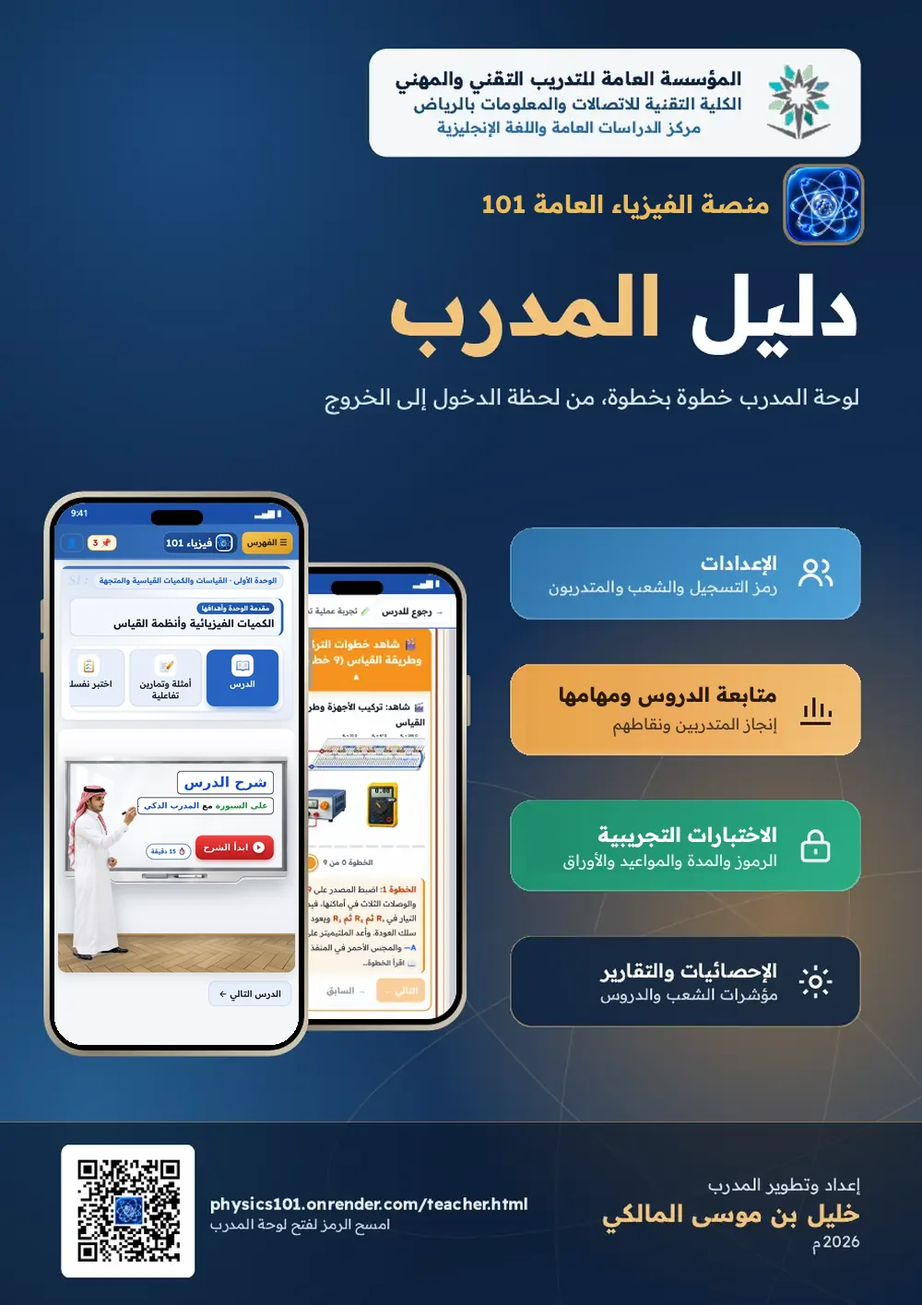
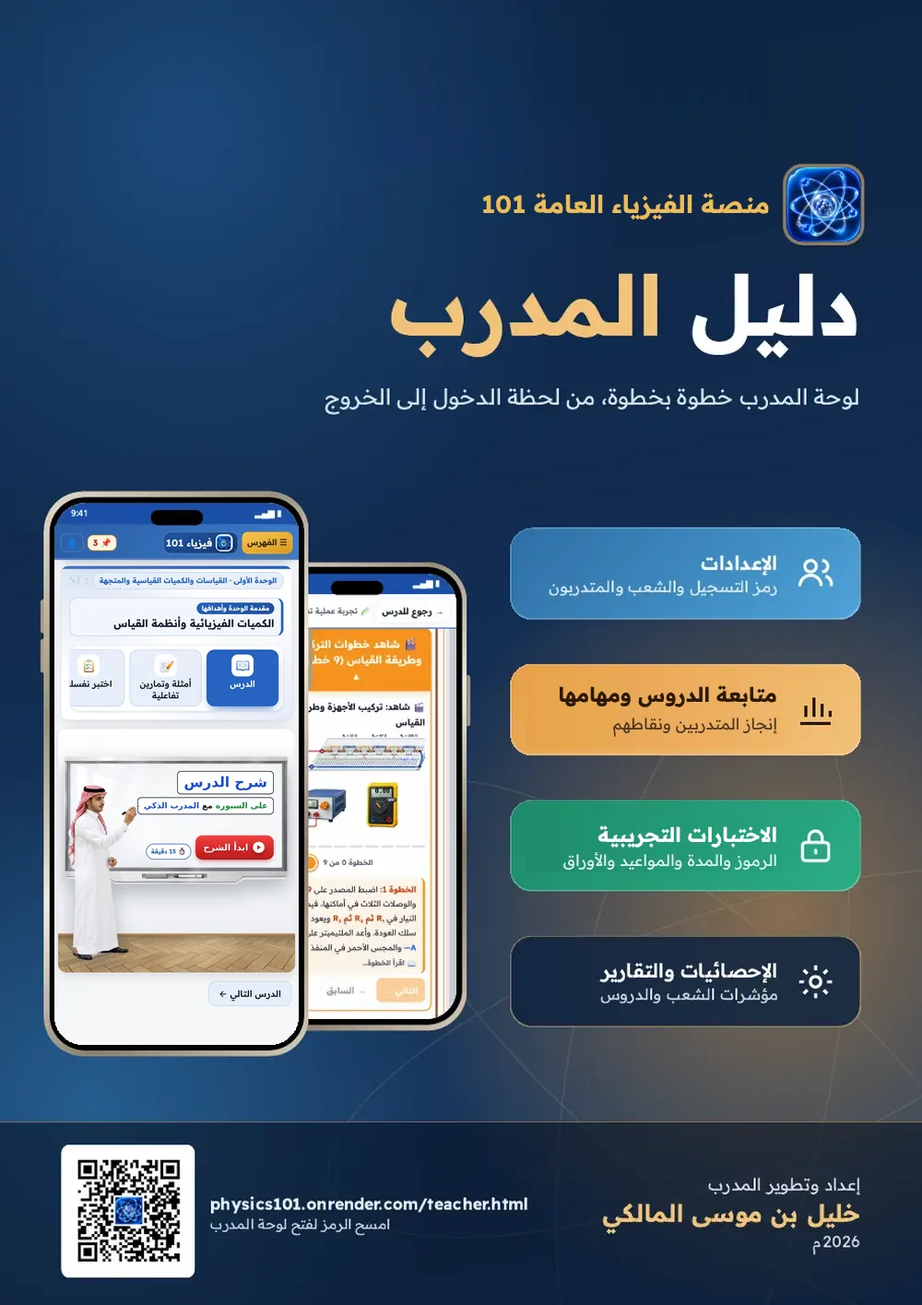
غلاف الدليلين بلا شعار المؤسسة واسم الكلية
Claude-Session: https://claude.ai/code/session_01CB4T7YvaYW1hTMEojz72V4

Changed region(s): [[0.372, 0.0311, 0.961, 0.1244]]

diff --git a/guide.html b/guide.html
@@ -18,7 +18,7 @@ main{max-width:920px;margin:0 auto;padding:12px 10px 40px;padding-left:max(10px,
 <header><img src="icon-192.png" alt=""><h1>دليل المتدرب</h1><button type="button" id="tg">☰ الفهرس</button><a href="index.html">↩ المنصة</a></header>
 <main><nav class="toc" id="toc"><h2>☰ محتويات دليل المتدرب</h2><a href="#p2">03 المتطلبات قبل البدء</a><div class="stg"><b>1</b>مرحلة البدء</div><a href="#p3"><span>1-1</span>البدء: الدخول وتعيين كلمة المرور</a><a href="#p7"><span>1-2</span>الصفحة الرئيسية واختيار الدرس</a><div class="stg"><b>2</b>مرحلة الشرح</div><a href="#p8"><span>2-1</span>شرح الدرس على السبورة مع المدرب الذكي</a><a href="#p12"><span>2-2</span>نص الدرس و«استمع للدرس كاملا»</a><div class="stg"><b>3</b>مرحلة التدريب</div><a href="#p14"><span>3-1</span>الأمثلة والتمارين التفاعلية</a><a href="#p18"><span>3-2</span>اختبر نفسك والآلة الحاسبة</a><a href="#p20"><span>3-3</span>التجارب العملية التفاعلية</a><a href="#p23"><span>3-4</span>المساعد الذكي وتقييم الدرس</a><div class="stg"><b>4</b>مرحلة الإنهاء</div><a href="#p27"><span>4-1</span>إنهاء الدرس وحفظ التقدم والانتقال للدرس التالي</a><a href="#p29"><span>4-2</span>الإعدادات: الصوت والوضع الليلي</a><div class="stg"><b>5</b>مرحلة الاختبارات والخروج</div><a href="#p31"><span>5-1</span>الاختبارات التجريبية</a><a href="#p35"><span>5-2</span>تسجيل الخروج</a></nav>
 <p class="note">كبّر الصفحة بإصبعين لقراءة التفاصيل.</p>
-<img id="p1" class="pg" src="gtr-01.webp?v=1103b" width="1000" height="1415" alt="دليل المتدرب - صفحة 1" loading="eager" decoding="async"><img id="p2" class="pg" src="gtr-02.webp?v=1103b" width="1000" height="1415" alt="دليل المتدرب - صفحة 2" loading="eager" decoding="async"><img id="p3" class="pg" src="gtr-03.webp?v=1103b" width="1000" height="1415" alt="دليل المتدرب - صفحة 3" loading="lazy" decoding="async"><img id="p4" class="pg" src="gtr-04.webp?v=1103b" width="1000" height="1415" alt="دليل المتدرب - صفحة 4" loading="lazy" decoding="async"><img id="p5" class="pg" src="gtr-05.webp?v=1103b" width="1000" height="1415" alt="دليل المتدرب - صفحة 5" loading="lazy" decoding="async"><img id="p6" class="pg" src="gtr-06.webp?v=1103b" width="1000" height="1415" alt="دليل المتدرب - صفحة 6" loading="lazy" decoding="async"><img id="p7" class="pg" src="gtr-07.webp?v=1103b" width="1000" height="1415" alt="دليل المتدرب - صفحة 7" loading="lazy" decoding="async"><img id="p8" class="pg" src="gtr-08.webp?v=1103b" width="1000" height="1415" alt="دليل المتدرب - صفحة 8" loading="lazy" decoding="async"><img id="p9" class="pg" src="gtr-09.webp?v=1103b" width="1000" height="1415" alt="دليل المتدرب - صفحة 9" loading="lazy" decoding="async"><img id="p10" class="pg" src="gtr-10.webp?v=1103b" width="1000" height="1415" alt="دليل المتدرب - صفحة 10" loading="lazy" decoding="async"><img id="p11" class="pg" src="gtr-11.webp?v=1103b" width="1000" height="1415" alt="دليل المتدرب - صفحة 11" loading="lazy" decoding="async"><img id="p12" class="pg" src="gtr-12.webp?v=1103b" width="1000" height="1415" alt="دليل المتدرب - صفحة 12" loading="lazy" decoding="async"><img id="p14" class="pg" src="gtr-14.webp?v=1103b" width="1000" height="1415" alt="دليل المتدرب - صفحة 14" loading="lazy" decoding="async"><img id="p15" class="pg" src="gtr-15.webp?v=1103b" width="1000" height="1415" alt="دليل المتدرب - صفحة 15" loading="lazy" decoding="async"><img id="p16" class="pg" src="gtr-16.webp?v=1103b" width="1000" height="1415" alt="دليل المتدرب - صفحة 16" loading="lazy" decoding="async"><img id="p17" class="pg" src="gtr-17.webp?v=1103b" width="1000" height="1415" alt="دليل المتدرب - صفحة 17" loading="lazy" decoding="async"><img id="p18" class="pg" src="gtr-18.webp?v=1103b" width="1000" height="1415" alt="دليل المتدرب - صفحة 18" loading="lazy" decoding="async"><img id="p19" class="pg" src="gtr-19.webp?v=1103b" width="1000" height="1415" alt="دليل المتدرب - صفحة 19" loading="lazy" decoding="async"><img id="p20" class="pg" src="gtr-20.webp?v=1103b" width="1000" height="1415" alt="دليل المتدرب - صفحة 20" loading="lazy" decoding="async"><img id="p21" class="pg" src="gtr-21.webp?v=1103b" width="1000" height="1415" alt="دليل المتدرب - صفحة 21" loading="lazy" decoding="async"><img id="p22" class="pg" src="gtr-22.webp?v=1103b" width="1000" height="1415" alt="دليل المتدرب - صفحة 22" loading="lazy" decoding="async"><img id="p23" class="pg" src="gtr-23.webp?v=1103b" width="1000" height="1415" alt="دليل المتدرب - صفحة 23" loading="lazy" decoding="async"><img id="p24" class="pg" src="gtr-24.webp?v=1103b" width="1000" height="1415" alt="دليل المتدرب - صفحة 24" loading="lazy" decoding="async"><img id="p25" class="pg" src="gtr-25.webp?v=1103b" width="1000" height="1415" alt="دليل المتدرب - صفحة 25" loading="lazy" decoding="async"><img id="p26" class="pg" src="gtr-26.webp?v=1103b" width="1000" height="1415" alt="دليل المتدرب - صفحة 26" loading="lazy" decoding="async"><img id="p27" class="pg" src="gtr-27.webp?v=1103b" width="1000" height="1415" alt="دليل المتدرب - صفحة 27" loading="lazy" decoding="async"><img id="p28" class="pg" src="gtr-28.webp?v=1103b" width="1000" height="1415" alt="دليل المتدرب - صفحة 28" loading="lazy" decoding="async"><img id="p29" class="pg" src="gtr-29.webp?v=1103b" width="1000" height="1415" alt="دليل المتدرب - صفحة 29" loading="lazy" decoding="async"><img id="p30" class="pg" src="gtr-30.webp?v=1103b" width="1000" height="1415" alt="دليل المتدرب - صفحة 30" loading="lazy" decoding="async"><img id="p31" class="pg" src="gtr-31.webp?v=1103b" width="1000" height="1415" alt="دليل المتدرب - صفحة 31" loading="lazy" decoding="async"><img id="p32" class="pg" src="gtr-32.webp?v=1103b" width="1000" height="1415" alt="دليل المتدرب - صفحة 32" loading="lazy" decoding="async"><img id="p33" class="pg" src="gtr-33.webp?v=1103b" width="1000" height="1415" alt="دليل المتدرب - صفحة 33" loading="lazy" decoding="async"><img id="p34" class="pg" src="gtr-34.webp?v=1103b" width="1000" height="1415" alt="دليل المتدرب - صفحة 34" loading="lazy" decoding="async"><img id="p35" class="pg" src="gtr-35.webp?v=1103b" width="1000" height="1415" alt="دليل المتدرب - صفحة 35" loading="lazy" decoding="async"></main>
+<img id="p1" class="pg" src="gtr-01.webp?v=1103c" width="1000" height="1415" alt="دليل المتدرب - صفحة 1" loading="eager" decoding="async"><img id="p2" class="pg" src="gtr-02.webp?v=1103b" width="1000" height="1415" alt="دليل المتدرب - صفحة 2" loading="eager" decoding="async"><img id="p3" class="pg" src="gtr-03.webp?v=1103b" width="1000" height="1415" alt="دليل المتدرب - صفحة 3" loading="lazy" decoding="async"><img id="p4" class="pg" src="gtr-04.webp?v=1103b" width="1000" height="1415" alt="دليل المتدرب - صفحة 4" loading="lazy" decoding="async"><img id="p5" class="pg" src="gtr-05.webp?v=1103b" width="1000" height="1415" alt="دليل المتدرب - صفحة 5" loading="lazy" decoding="async"><img id="p6" class="pg" src="gtr-06.webp?v=1103b" width="1000" height="1415" alt="دليل المتدرب - صفحة 6" loading="lazy" decoding="async"><img id="p7" class="pg" src="gtr-07.webp?v=1103b" width="1000" height="1415" alt="دليل المتدرب - صفحة 7" loading="lazy" decoding="async"><img id="p8" class="pg" src="gtr-08.webp?v=1103b" width="1000" height="1415" alt="دليل المتدرب - صفحة 8" loading="lazy" decoding="async"><img id="p9" class="pg" src="gtr-09.webp?v=1103b" width="1000" height="1415" alt="دليل المتدرب - صفحة 9" loading="lazy" decoding="async"><img id="p10" class="pg" src="gtr-10.webp?v=1103b" width="1000" height="1415" alt="دليل المتدرب - صفحة 10" loading="lazy" decoding="async"><img id="p11" class="pg" src="gtr-11.webp?v=1103b" width="1000" height="1415" alt="دليل المتدرب - صفحة 11" loading="lazy" decoding="async"><img id="p12" class="pg" src="gtr-12.webp?v=1103b" width="1000" height="1415" alt="دليل المتدرب - صفحة 12" loading="lazy" decoding="async"><img id="p14" class="pg" src="gtr-14.webp?v=1103b" width="1000" height="1415" alt="دليل المتدرب - صفحة 14" loading="lazy" decoding="async"><img id="p15" class="pg" src="gtr-15.webp?v=1103b" width="1000" height="1415" alt="دليل المتدرب - صفحة 15" loading="lazy" decoding="async"><img id="p16" class="pg" src="gtr-16.webp?v=1103b" width="1000" height="1415" alt="دليل المتدرب - صفحة 16" loading="lazy" decoding="async"><img id="p17" class="pg" src="gtr-17.webp?v=1103b" width="1000" height="1415" alt="دليل المتدرب - صفحة 17" loading="lazy" decoding="async"><img id="p18" class="pg" src="gtr-18.webp?v=1103b" width="1000" height="1415" alt="دليل المتدرب - صفحة 18" loading="lazy" decoding="async"><img id="p19" class="pg" src="gtr-19.webp?v=1103b" width="1000" height="1415" alt="دليل المتدرب - صفحة 19" loading="lazy" decoding="async"><img id="p20" class="pg" src="gtr-20.webp?v=1103b" width="1000" height="1415" alt="دليل المتدرب - صفحة 20" loading="lazy" decoding="async"><img id="p21" class="pg" src="gtr-21.webp?v=1103b" width="1000" height="1415" alt="دليل المتدرب - صفحة 21" loading="lazy" decoding="async"><img id="p22" class="pg" src="gtr-22.webp?v=1103b" width="1000" height="1415" alt="دليل المتدرب - صفحة 22" loading="lazy" decoding="async"><img id="p23" class="pg" src="gtr-23.webp?v=1103b" width="1000" height="1415" alt="دليل المتدرب - صفحة 23" loading="lazy" decoding="async"><img id="p24" class="pg" src="gtr-24.webp?v=1103b" width="1000" height="1415" alt="دليل المتدرب - صفحة 24" loading="lazy" decoding="async"><img id="p25" class="pg" src="gtr-25.webp?v=1103b" width="1000" height="1415" alt="دليل المتدرب - صفحة 25" loading="lazy" decoding="async"><img id="p26" class="pg" src="gtr-26.webp?v=1103b" width="1000" height="1415" alt="دليل المتدرب - صفحة 26" loading="lazy" decoding="async"><img id="p27" class="pg" src="gtr-27.webp?v=1103b" width="1000" height="1415" alt="دليل المتدرب - صفحة 27" loading="lazy" decoding="async"><img id="p28" class="pg" src="gtr-28.webp?v=1103b" width="1000" height="1415" alt="دليل المتدرب - صفحة 28" loading="lazy" decoding="async"><img id="p29" class="pg" src="gtr-29.webp?v=1103b" width="1000" height="1415" alt="دليل المتدرب - صفحة 29" loading="lazy" decoding="async"><img id="p30" class="pg" src="gtr-30.webp?v=1103b" width="1000" height="1415" alt="دليل المتدرب - صفحة 30" loading="lazy" decoding="async"><img id="p31" class="pg" src="gtr-31.webp?v=1103b" width="1000" height="1415" alt="دليل المتدرب - صفحة 31" loading="lazy" decoding="async"><img id="p32" class="pg" src="gtr-32.webp?v=1103b" width="1000" height="1415" alt="دليل المتدرب - صفحة 32" loading="lazy" decoding="async"><img id="p33" class="pg" src="gtr-33.webp?v=1103b" width="1000" height="1415" alt="دليل المتدرب - صفحة 33" loading="lazy" decoding="async"><img id="p34" class="pg" src="gtr-34.webp?v=1103b" width="1000" height="1415" alt="دليل المتدرب - صفحة 34" loading="lazy" decoding="async"><img id="p35" class="pg" src="gtr-35.webp?v=1103b" width="1000" height="1415" alt="دليل المتدرب - صفحة 35" loading="lazy" decoding="async"></main>
 <button class="top" type="button" id="up" aria-label="إلى الأعلى">↑</button>
 <script>
 const T=document.getElementById('toc');document.getElementById('tg').onclick=()=>{T.hidden=false;T.scrollIntoView({behavior:'smooth'})};

diff --git a/teacher-guide.html b/teacher-guide.html
@@ -18,7 +18,7 @@ main{max-width:920px;margin:0 auto;padding:12px 10px 40px;padding-left:max(10px,
 <header><img src="icon-192.png" alt=""><h1>دليل المدرب</h1><button type="button" id="tg">☰ الفهرس</button><a href="teacher.html">↩ لوحة المدرب</a></header>
 <main><nav class="toc" id="toc"><h2>☰ محتويات دليل المدرب</h2><a href="#p2">03 المتطلبات قبل البدء</a><div class="stg"><b>1</b>مرحلة الدخول</div><a href="#p3"><span>1-1</span>الدخول إلى لوحة المدرب</a><div class="stg"><b>2</b>مرحلة الإعدادات</div><a href="#p5"><span>2-1</span>رمز التسجيل لأول دخول</a><a href="#p6"><span>2-2</span>إضافة الشعب</a><a href="#p7"><span>2-3</span>رابط المنصة والمدرب الذكي</a><a href="#p9"><span>2-4</span>بيانات الدخول</a><a href="#p10"><span>2-5</span>إدارة المتدربين</a><a href="#p11"><span>2-6</span>توزيع نقاط مهام الدروس</a><div class="stg"><b>3</b>مرحلة متابعة الدروس</div><a href="#p12"><span>3-1</span>متابعة الدروس</a><a href="#p13"><span>3-1</span>سجل متابعة المتدرب</a><div class="stg"><b>4</b>مرحلة مهام الدروس</div><a href="#p14"><span>4-1</span>نقاط مهام الدروس</a><a href="#p15"><span>4-1</span>المؤشرات والمتابعة</a><a href="#p16"><span>4-1</span>بطاقة المتدرب</a><div class="stg"><b>5</b>مرحلة الاختبارات</div><a href="#p17"><span>5-1</span>الاختبارات: الشعب والمتدربون</a><a href="#p18"><span>5-1</span>فتح الاختبار والرمز والمدة</a><a href="#p19"><span>5-1</span>موعد الاختبار والإعدادات العامة</a><a href="#p20"><span>5-1</span>سجل نتائج الاختبارات</a><a href="#p21"><span>5-1</span>إعادة الاختبار والسماح بجهاز آخر</a><a href="#p22"><span>5-2</span>أوراق المتدربين</a><a href="#p23"><span>5-2</span>الورقة بعد الحل والطباعة</a><a href="#p24"><span>5-2</span>بنك الأسئلة وتصدير Word</a><div class="stg"><b>6</b>مرحلة الإحصائيات والتقارير</div><a href="#p25"><span>6-1</span>الإحصائيات والتقارير</a><a href="#p26"><span>6-1</span>التقييم ومدة شرح الدروس</a><a href="#p27"><span>6-1</span>أسئلة المساعد الذكي</a><div class="stg"><b>7</b>مرحلة الخروج</div><a href="#p28"><span>7-1</span>تسجيل الخروج</a></nav>
 <p class="note">كبّر الصفحة بإصبعين لقراءة التفاصيل.</p>
-<img id="p1" class="pg" src="gtc-01.webp?v=1103b" width="1000" height="1415" alt="دليل المدرب - صفحة 1" loading="eager" decoding="async"><img id="p2" class="pg" src="gtc-02.webp?v=1103b" width="1000" height="1415" alt="دليل المدرب - صفحة 2" loading="eager" decoding="async"><img id="p3" class="pg" src="gtc-03.webp?v=1103b" width="1000" height="1415" alt="دليل المدرب - صفحة 3" loading="lazy" decoding="async"><img id="p4" class="pg" src="gtc-04.webp?v=1103b" width="1000" height="1415" alt="دليل المدرب - صفحة 4" loading="lazy" decoding="async"><img id="p5" class="pg" src="gtc-05.webp?v=1103b" width="1000" height="1415" alt="دليل المدرب - صفحة 5" loading="lazy" decoding="async"><img id="p6" class="pg" src="gtc-06.webp?v=1103b" width="1000" height="1415" alt="دليل المدرب - صفحة 6" loading="lazy" decoding="async"><img id="p7" class="pg" src="gtc-07.webp?v=1103b" width="1000" height="1415" alt="دليل المدرب - صفحة 7" loading="lazy" decoding="async"><img id="p8" class="pg" src="gtc-08.webp?v=1103b" width="1000" height="1415" alt="دليل المدرب - صفحة 8" loading="lazy" decoding="async"><img id="p9" class="pg" src="gtc-09.webp?v=1103b" width="1000" height="1415" alt="دليل المدرب - صفحة 9" loading="lazy" decoding="async"><img id="p10" class="pg" src="gtc-10.webp?v=1103b" width="1000" height="1415" alt="دليل المدرب - صفحة 10" loading="lazy" decoding="async"><img id="p11" class="pg" src="gtc-11.webp?v=1103b" width="1000" height="1415" alt="دليل المدرب - صفحة 11" loading="lazy" decoding="async"><img id="p12" class="pg" src="gtc-12.webp?v=1103b" width="1000" height="1415" alt="دليل المدرب - صفحة 12" loading="lazy" decoding="async"><img id="p13" class="pg" src="gtc-13.webp?v=1103b" width="1000" height="1415" alt="دليل المدرب - صفحة 13" loading="lazy" decoding="async"><img id="p14" class="pg" src="gtc-14.webp?v=1103b" width="1000" height="1415" alt="دليل المدرب - صفحة 14" loading="lazy" decoding="async"><img id="p15" class="pg" src="gtc-15.webp?v=1103b" width="1000" height="1415" alt="دليل المدرب - صفحة 15" loading="lazy" decoding="async"><img id="p16" class="pg" src="gtc-16.webp?v=1103b" width="1000" height="1415" alt="دليل المدرب - صفحة 16" loading="lazy" decoding="async"><img id="p17" class="pg" src="gtc-17.webp?v=1103b" width="1000" height="1415" alt="دليل المدرب - صفحة 17" loading="lazy" decoding="async"><img id="p18" class="pg" src="gtc-18.webp?v=1103b" width="1000" height="1415" alt="دليل المدرب - صفحة 18" loading="lazy" decoding="async"><img id="p19" class="pg" src="gtc-19.webp?v=1103b" width="1000" height="1415" alt="دليل المدرب - صفحة 19" loading="lazy" decoding="async"><img id="p20" class="pg" src="gtc-20.webp?v=1103b" width="1000" height="1415" alt="دليل المدرب - صفحة 20" loading="lazy" decoding="async"><img id="p21" class="pg" src="gtc-21.webp?v=1103b" width="1000" height="1415" alt="دليل المدرب - صفحة 21" loading="lazy" decoding="async"><img id="p22" class="pg" src="gtc-22.webp?v=1103b" width="1000" height="1415" alt="دليل المدرب - صفحة 22" loading="lazy" decoding="async"><img id="p23" class="pg" src="gtc-23.webp?v=1103b" width="1000" height="1415" alt="دليل المدرب - صفحة 23" loading="lazy" decoding="async"><img id="p24" class="pg" src="gtc-24.webp?v=1103b" width="1000" height="1415" alt="دليل المدرب - صفحة 24" loading="lazy" decoding="async"><img id="p25" class="pg" src="gtc-25.webp?v=1103b" width="1000" height="1415" alt="دليل المدرب - صفحة 25" loading="lazy" decoding="async"><img id="p26" class="pg" src="gtc-26.webp?v=1103b" width="1000" height="1415" alt="دليل المدرب - صفحة 26" loading="lazy" decoding="async"><img id="p27" class="pg" src="gtc-27.webp?v=1103b" width="1000" height="1415" alt="دليل المدرب - صفحة 27" loading="lazy" decoding="async"><img id="p28" class="pg" src="gtc-28.webp?v=1103b" width="1000" height="1415" alt="دليل المدرب - صفحة 28" loading="lazy" decoding="async"></main>
+<img id="p1" class="pg" src="gtc-01.webp?v=1103c" width="1000" height="1415" alt="دليل المدرب - صفحة 1" loading="eager" decoding="async"><img id="p2" class="pg" src="gtc-02.webp?v=1103b" width="1000" height="1415" alt="دليل المدرب - صفحة 2" loading="eager" decoding="async"><img id="p3" class="pg" src="gtc-03.webp?v=1103b" width="1000" height="1415" alt="دليل المدرب - صفحة 3" loading="lazy" decoding="async"><img id="p4" class="pg" src="gtc-04.webp?v=1103b" width="1000" height="1415" alt="دليل المدرب - صفحة 4" loading="lazy" decoding="async"><img id="p5" class="pg" src="gtc-05.webp?v=1103b" width="1000" height="1415" alt="دليل المدرب - صفحة 5" loading="lazy" decoding="async"><img id="p6" class="pg" src="gtc-06.webp?v=1103b" width="1000" height="1415" alt="دليل المدرب - صفحة 6" loading="lazy" decoding="async"><img id="p7" class="pg" src="gtc-07.webp?v=1103b" width="1000" height="1415" alt="دليل المدرب - صفحة 7" loading="lazy" decoding="async"><img id="p8" class="pg" src="gtc-08.webp?v=1103b" width="1000" height="1415" alt="دليل المدرب - صفحة 8" loading="lazy" decoding="async"><img id="p9" class="pg" src="gtc-09.webp?v=1103b" width="1000" height="1415" alt="دليل المدرب - صفحة 9" loading="lazy" decoding="async"><img id="p10" class="pg" src="gtc-10.webp?v=1103b" width="1000" height="1415" alt="دليل المدرب - صفحة 10" loading="lazy" decoding="async"><img id="p11" class="pg" src="gtc-11.webp?v=1103b" width="1000" height="1415" alt="دليل المدرب - صفحة 11" loading="lazy" decoding="async"><img id="p12" class="pg" src="gtc-12.webp?v=1103b" width="1000" height="1415" alt="دليل المدرب - صفحة 12" loading="lazy" decoding="async"><img id="p13" class="pg" src="gtc-13.webp?v=1103b" width="1000" height="1415" alt="دليل المدرب - صفحة 13" loading="lazy" decoding="async"><img id="p14" class="pg" src="gtc-14.webp?v=1103b" width="1000" height="1415" alt="دليل المدرب - صفحة 14" loading="lazy" decoding="async"><img id="p15" class="pg" src="gtc-15.webp?v=1103b" width="1000" height="1415" alt="دليل المدرب - صفحة 15" loading="lazy" decoding="async"><img id="p16" class="pg" src="gtc-16.webp?v=1103b" width="1000" height="1415" alt="دليل المدرب - صفحة 16" loading="lazy" decoding="async"><img id="p17" class="pg" src="gtc-17.webp?v=1103b" width="1000" height="1415" alt="دليل المدرب - صفحة 17" loading="lazy" decoding="async"><img id="p18" class="pg" src="gtc-18.webp?v=1103b" width="1000" height="1415" alt="دليل المدرب - صفحة 18" loading="lazy" decoding="async"><img id="p19" class="pg" src="gtc-19.webp?v=1103b" width="1000" height="1415" alt="دليل المدرب - صفحة 19" loading="lazy" decoding="async"><img id="p20" class="pg" src="gtc-20.webp?v=1103b" width="1000" height="1415" alt="دليل المدرب - صفحة 20" loading="lazy" decoding="async"><img id="p21" class="pg" src="gtc-21.webp?v=1103b" width="1000" height="1415" alt="دليل المدرب - صفحة 21" loading="lazy" decoding="async"><img id="p22" class="pg" src="gtc-22.webp?v=1103b" width="1000" height="1415" alt="دليل المدرب - صفحة 22" loading="lazy" decoding="async"><img id="p23" class="pg" src="gtc-23.webp?v=1103b" width="1000" height="1415" alt="دليل المدرب - صفحة 23" loading="lazy" decoding="async"><img id="p24" class="pg" src="gtc-24.webp?v=1103b" width="1000" height="1415" alt="دليل المدرب - صفحة 24" loading="lazy" decoding="async"><img id="p25" class="pg" src="gtc-25.webp?v=1103b" width="1000" height="1415" alt="دليل المدرب - صفحة 25" loading="lazy" decoding="async"><img id="p26" class="pg" src="gtc-26.webp?v=1103b" width="1000" height="1415" alt="دليل المدرب - صفحة 26" loading="lazy" decoding="async"><img id="p27" class="pg" src="gtc-27.webp?v=1103b" width="1000" height="1415" alt="دليل المدرب - صفحة 27" loading="lazy" decoding="async"><img id="p28" class="pg" src="gtc-28.webp?v=1103b" width="1000" height="1415" alt="دليل المدرب - صفحة 28" loading="lazy" decoding="async"></main>
 <button class="top" type="button" id="up" aria-label="إلى الأعلى">↑</button>
 <script>
 const T=document.getElementById('toc');document.getElementById('tg').onclick=()=>{T.hidden=false;T.scrollIntoView({behavior:'smooth'})};
